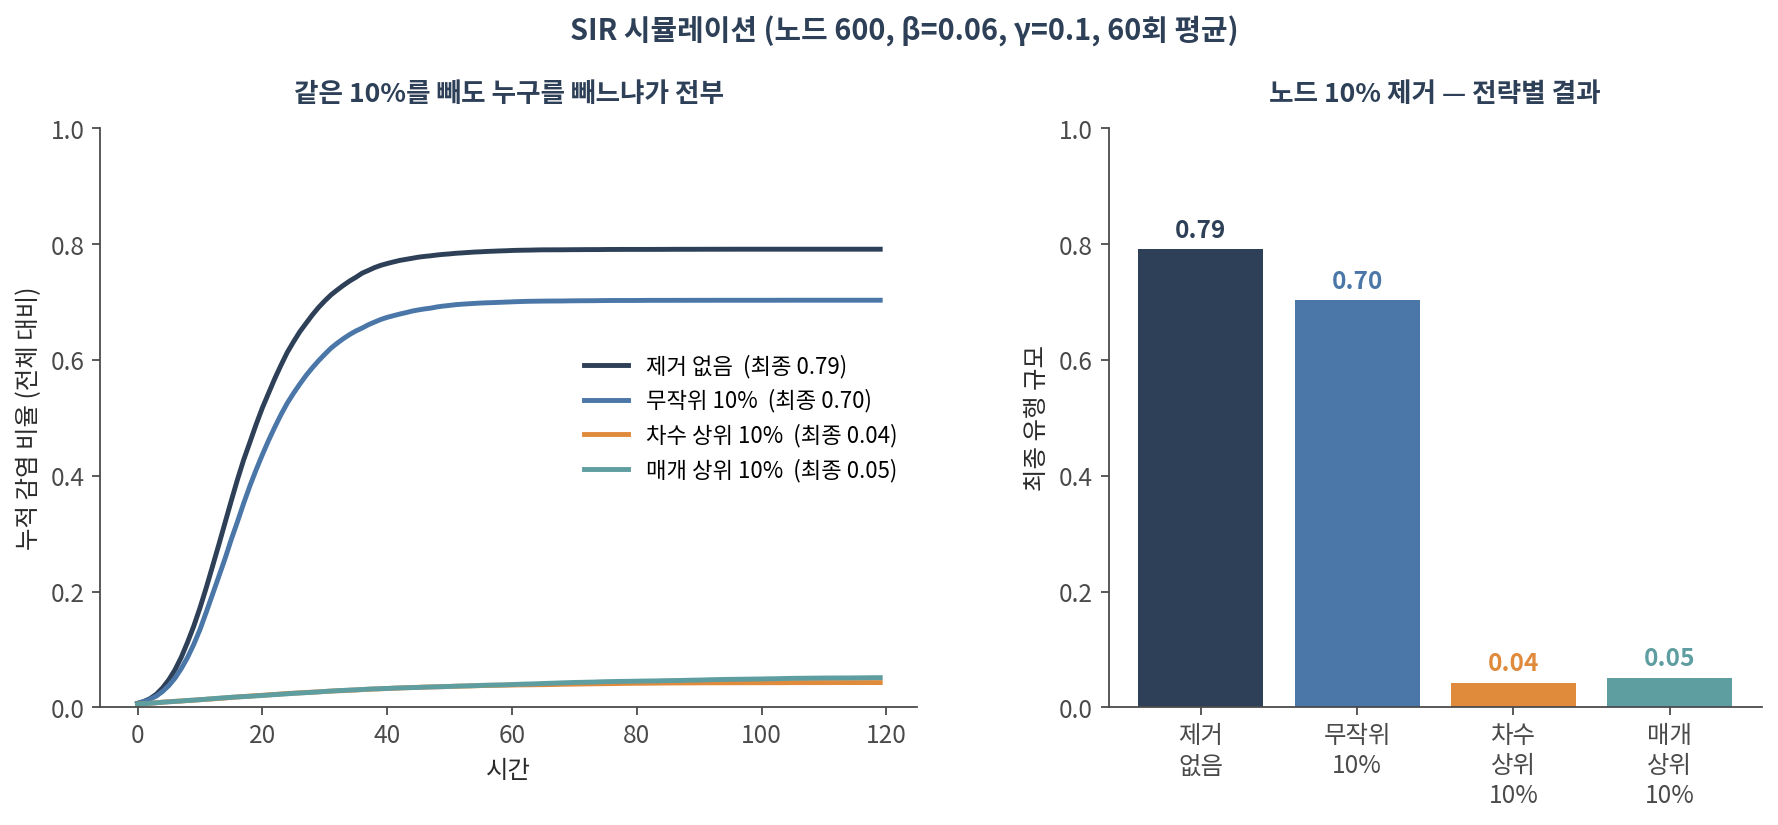
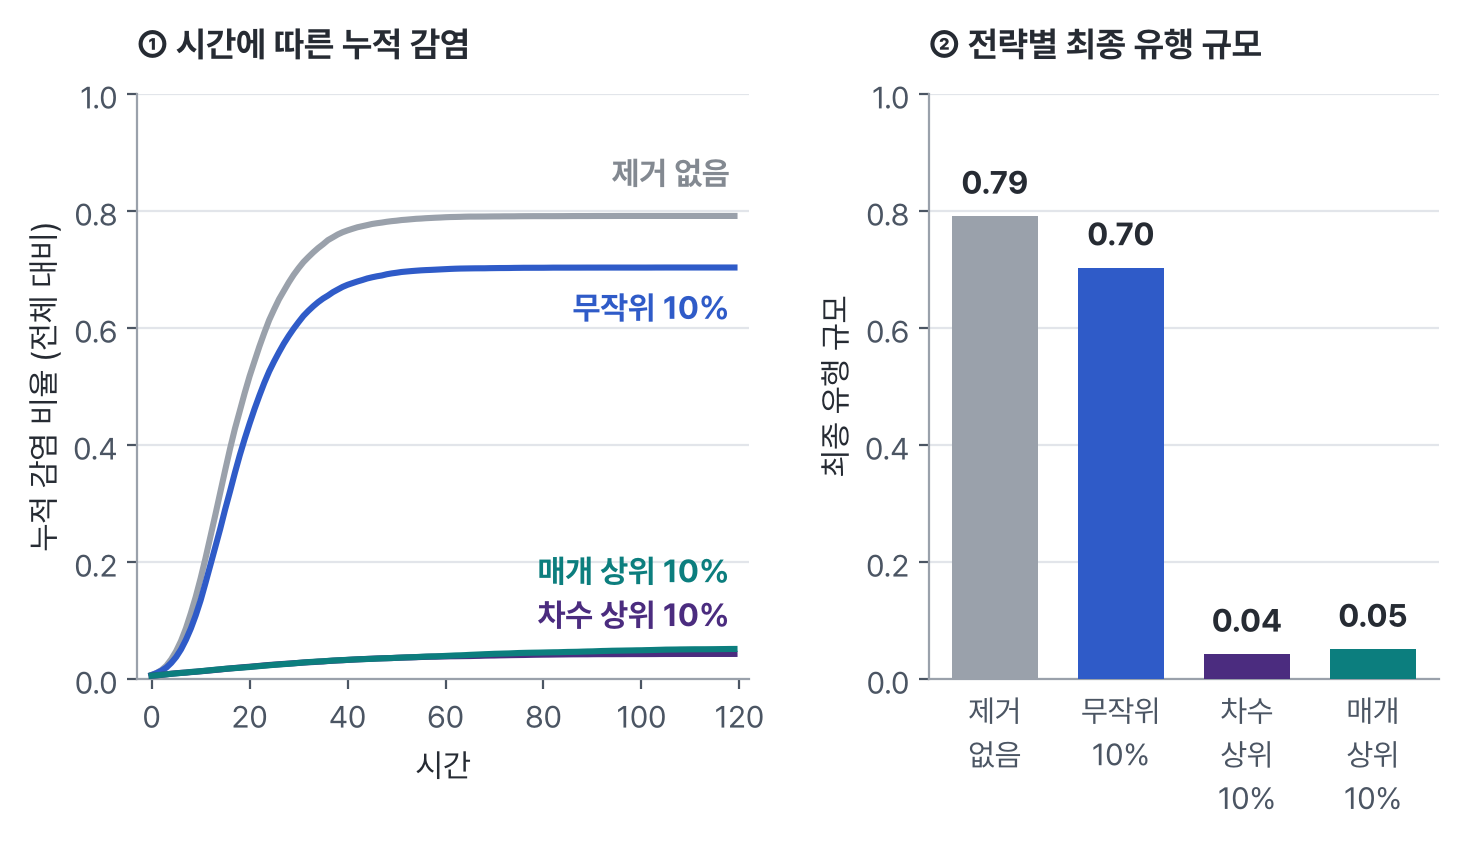
Ch 06: figures in the course style (linkpred,rwr,sir)
Claude-Session: https://claude.ai/code/session_013CY8u6jJVw5bdmmbqCENQW

diff --git a/figs/c06_rwr.py b/figs/c06_rwr.py
@@ -1,16 +1,16 @@
 """06 §2 — 재시작 랜덤워크(RWR)와 restart 파라미터.
 
-왼쪽 셋: 시드에서 출발한 확률이 네트워크로 퍼지는 모습.
-오른쪽: alpha 를 1 에 가깝게 두면 결국 '차수 줄세우기'가 된다.
+위 세 패널: 시드에서 출발한 확률이 네트워크로 퍼지는 모습 (세 패널 같은 색 눈금).
+아래: alpha 를 1 에 가깝게 두면 결국 '차수 줄세우기'가 된다.
 """
 import sys, os
 sys.path.insert(0, os.path.dirname(os.path.abspath(__file__)))
-from style import *
+from medfig import *
 import networkx as nx
 from scipy.stats import spearmanr
+from matplotlib.colors import LogNorm, LinearSegmentedColormap
 
-OUT = outdir("c06")
-
+# ── 계산 (이전 스크립트와 동일) ───────────────────────────────────────────
 n_comm, size, p_in, p_out = 5, 60, 0.12, 0.008
 P = np.full((n_comm, n_comm), p_out); np.fill_diagonal(P, p_in)
 G = nx.stochastic_block_model([size] * n_comm, P, seed=4)
@@ -20,7 +20,6 @@ comm = {v: v // size for v in order}
 A = nx.to_numpy_array(G, nodelist=order)
 W = A / A.sum(0)
 deg = np.array([G.degree(v) for v in order])
-pos = nx.spring_layout(G, seed=4, k=0.26)
 
 seeds = [v for v in order if comm[v] == 0][:3]
 p0 = np.zeros(len(order))
@@ -35,40 +34,77 @@ def rwr(alpha, iters=300):
     return p
 
 
-fig = plt.figure(figsize=(15.6, 4.6))
-gs = fig.add_gridspec(1, 4, width_ratios=[1, 1, 1, 1.25], wspace=0.22)
+# ── 그리기용 배치: 커뮤니티를 오각형으로 놓고, 시드 커뮤니티(0)를 왼쪽에 ─────────
+pos = {}
+for c in range(n_comm):
+    ang = np.deg2rad(180 - 72 * c)
+    cx, cy = np.cos(ang), np.sin(ang)
+    sub = G.subgraph([v for v in order if comm[v] == c])
+    sp = nx.spring_layout(sub, seed=4, k=0.35)
+    for v, (x, y) in sp.items():
+        pos[v] = (cx + 0.46 * x, cy + 0.46 * y)
+intra = [(u, v) for u, v in G.edges() if comm[u] == comm[v]]
+inter = [(u, v) for u, v in G.edges() if comm[u] != comm[v]]
 
-for i, alpha in enumerate([0.50, 0.85, 0.99]):
+SCORE = LinearSegmentedColormap.from_list(
+    "score", [mix(PRIMARY, 0.13), STEPS[1], STEPS[0], PRIMARY, shade(PRIMARY, 0.3)])
+VMIN, VMAX = 3e-4, 2e-2
+norm = LogNorm(vmin=VMIN, vmax=VMAX, clip=True)
+
+plt.rcParams.update({"xtick.labelsize": 11, "ytick.labelsize": 11})
+fig = plt.figure(figsize=(8.4, 6.0))
+gs = fig.add_gridspec(2, 3, height_ratios=[1.12, 1], hspace=0.30, wspace=0.04,
+                      left=0.09, right=0.98, top=0.95, bottom=0.09)
+
+show = [0.50, 0.85, 0.99]
+marks = ["①", "②", "③"]
+for i, alpha in enumerate(show):
     p = rwr(alpha)
     mass = sum(p[order.index(v)] for v in order if comm[v] == 0)
     ax = fig.add_subplot(gs[0, i])
-    nx.draw_networkx_edges(G, pos, ax=ax, edge_color=LGREY, width=0.4)
-    nodes = nx.draw_networkx_nodes(G, pos, ax=ax, node_color=p, cmap="YlOrRd",
-                                   linewidths=0, node_size=40,
-                                   vmin=0, vmax=p.max())
+    nx.draw_networkx_edges(G, pos, ax=ax, edgelist=inter, edge_color=LINE, width=0.35, alpha=0.8)
+    nx.draw_networkx_edges(G, pos, ax=ax, edgelist=intra, edge_color=LINE, width=0.55)
+    srt = sorted(order, key=lambda v: p[order.index(v)])
+    cols = [SCORE(norm(np.clip(p[order.index(v)], VMIN, VMAX))) for v in srt]
+    nx.draw_networkx_nodes(G, pos, ax=ax, nodelist=srt, node_color=cols,
+                           linewidths=0, node_size=20)
     nx.draw_networkx_nodes(G, pos, ax=ax, nodelist=seeds, node_color="none",
-                           edgecolors=NAVY, linewidths=2.0, node_size=110)
-    ax.set_title(f"restart α = {alpha}", color=NAVY, fontsize=12)
-    ax.text(0.5, -0.03,
-            f"시드 커뮤니티에 남은 확률 {mass:.2f}",
-            transform=ax.transAxes, ha="center", va="top", fontsize=10.5,
-            color=RED if mass < 0.4 else "#4A4A4A")
-    ax.margins(0.05); ax.set_axis_off()
+                           edgecolors=TEXT, linewidths=1.5, node_size=62)
+    ax.set_aspect("equal"); ax.margins(0.03)
+    ax.set_xticks([]); ax.set_yticks([])
+    for spn in ax.spines.values(): spn.set_visible(False)
+    ax.text(0.5, 1.02, f"{marks[i]} α = {alpha:.2f}", transform=ax.transAxes, ha="center",
+            va="bottom", fontsize=12.5, fontweight="bold", color=TEXT)
+    ax.text(0.5, 0.0, f"시드 커뮤니티에 남은 확률 {mass:.2f}", transform=ax.transAxes,
+            ha="center", va="top", fontsize=11, color=TEXT)
 
-ax = fig.add_subplot(gs[0, 3])
+# ── 아래: α 와 차수 상관 ───────────────────────────────────────────────────
+ax = fig.add_subplot(gs[1, :])
 alphas = np.arange(0.1, 1.0, 0.02)
 rho = [spearmanr(rwr(a, 200), deg).statistic for a in alphas]
-ax.plot(alphas, rho, color=NAVY, lw=2)
-for a, col in [(0.50, TEAL), (0.85, ORANGE), (0.99, RED)]:
-    ax.axvline(a, color=col, ls="--", lw=1.3)
-ax.set_xlabel("restart α"); ax.set_ylabel("RWR 점수와 차수의 상관 (ρ)")
-ax.set_ylim(0, 1)
-ax.set_title("⚠ α가 1에 가까우면\n허브 줄세우기가 된다", color=NAVY, fontsize=12)
+ax.axvspan(0.5, 0.8, color=FAINT, lw=0, zorder=0)
+ax.text(0.65, 0.05, "흔히 쓰는 값", ha="center", va="bottom", fontsize=11, color=TEXT2)
+ax.plot(alphas, rho, color=PRIMARY, lw=2, zorder=3)
 
-fig.suptitle("시드(테두리 표시) 3개에서 출발한 확률이 어디까지 퍼지는가",
-             color=NAVY, fontsize=13, fontweight="bold", y=1.03)
-fig.savefig(os.path.join(OUT, "rwr.png"))
-print("wrote", os.path.join(OUT, "rwr.png"))
+pts = [(a, spearmanr(rwr(a), deg).statistic) for a in show]
+(a1, r1), (a2, r2), (a3, r3) = pts
+ax.plot([alphas[-1], a3], [rho[-1], r3], color=PRIMARY, lw=1.4, ls=(0, (2, 2)), zorder=3)
+ax.plot([a1, a2], [r1, r2], "o", ms=7, color=PRIMARY, zorder=4)
+ax.plot([a3], [r3], "o", ms=8, color=ACCENT_INK, zorder=4)
+ax.text(a1, r1 + 0.09, f"① ρ = {r1:.2f}", ha="center", va="bottom", fontsize=11,
+        fontweight="bold", color=TEXT)
+ax.text(a2 + 0.02, r2 - 0.06, f"② ρ = {r2:.2f}", ha="left", va="center", fontsize=11,
+        fontweight="bold", color=TEXT)
+ax.text(a3 - 0.025, r3, f"③ ρ = {r3:.2f} · 허브 줄세우기", ha="right", va="center",
+        fontsize=11.5, fontweight="bold", color=ACCENT_INK)
+
+ax.set_xlim(0.08, 1.02); ax.set_ylim(0, 1.05)
+ax.set_yticks([0, 0.25, 0.5, 0.75, 1.0])
+ax.set_xlabel("restart α", fontsize=11.5)
+ax.set_ylabel("차수와의 상관 ρ", fontsize=11.5)
+ax.grid(axis="y", color=LINE, lw=0.6, zorder=0)
+
+save(fig, img("c06", "rwr.png"))
 for a in (0.3, 0.5, 0.7, 0.85, 0.95, 0.99):
     p = rwr(a)
     mass = sum(p[order.index(v)] for v in order if comm[v] == 0)

diff --git a/figs/c06_linkpred.py b/figs/c06_linkpred.py
@@ -5,12 +5,11 @@ AUROC 는 그대로인데 AUPRC 는 무너진다.
 """
 import sys, os
 sys.path.insert(0, os.path.dirname(os.path.abspath(__file__)))
-from style import *
+from medfig import *
 import networkx as nx
 from sklearn.metrics import (roc_curve, precision_recall_curve,
                              roc_auc_score, average_precision_score)
 
-OUT = outdir("c06")
 rng = np.random.default_rng(0)
 
 G = nx.powerlaw_cluster_graph(800, 3, 0.35, seed=1)
@@ -40,57 +39,78 @@ scorers = {
     "Adamic–Adar": lambda p: [s for _, _, s in nx.adamic_adar_index(H, p)],
     "Preferential Att.": lambda p: [s for _, _, s in nx.preferential_attachment(H, p)],
 }
-cols = {"Common Neighbors": BLUE, "Jaccard": PURPLE,
-        "Adamic–Adar": TEAL, "Preferential Att.": ORANGE}
+names = list(scorers)
+cols = {n: CAT[i] for i, n in enumerate(names)}      # 나란한 네 방법
+NEUTRAL = "#9AA1AB"
 
 settings = [("음성을 양성과 같은 수만 뽑으면", n_test),
             ("음성을 현실 비율대로 뽑으면 (1:50)", n_test * 50)]
+markers = ["① 음성을 양성과 같은 수만 (1:1)", "② 음성을 현실 비율대로 (1:50)"]
 
-fig, axes = plt.subplots(1, 3, figsize=(15.6, 4.7), gridspec_kw={"wspace": 0.28})
+plt.rcParams.update({"xtick.labelsize": 11, "ytick.labelsize": 11})
+fig = plt.figure(figsize=(8.4, 6.5))
+gs = fig.add_gridspec(2, 2, height_ratios=[1.4, 1], hspace=0.4, wspace=0.26)
+axes = [fig.add_subplot(gs[0, 0]), fig.add_subplot(gs[0, 1]), fig.add_subplot(gs[1, :])]
 summary = {}
 
-for si, (label, n_neg) in enumerate(settings):
+for si, (lab, n_neg) in enumerate(settings):
     neg = sample_neg(n_neg)
     pairs = test_pos + neg
     y = np.r_[np.ones(len(test_pos)), np.zeros(len(neg))]
-    summary[label] = {}
+    summary[lab] = {}
     ax = axes[si]
     for name, f in scorers.items():
         s = np.array(f(pairs), dtype=float)
         pr, rc, _ = precision_recall_curve(y, s)
         ap = average_precision_score(y, s)
         auc = roc_auc_score(y, s)
-        summary[label][name] = (auc, ap)
-        ax.plot(rc, pr, color=cols[name], lw=1.8,
-                label=f"{name}  AUPRC={ap:.2f}")
-    ax.axhline(y.mean(), color=GREY, ls="--", lw=1.3,
-               label=f"우연 수준 {y.mean():.3f}")
-    ax.set_xlabel("Recall"); ax.set_ylabel("Precision")
-    ax.set_ylim(0, 1.02)
-    ax.set_title(label, color=NAVY, fontsize=12)
-    ax.legend(frameon=False, fontsize=9)
+        summary[lab][name] = (auc, ap)
+        ax.plot(rc, pr, color=cols[name], lw=1.8, label=f"{name}  {ap:.2f}")
+    chance_lab = f"우연 수준  {y.mean():.3f}"
+    ax.axhline(y.mean(), color=NEUTRAL, ls="--", lw=1.3,
+               label=(chance_lab if si == 1 else "_nolegend_"))
+    if si == 0:                                   # 범례와 겹치지 않게 점선 바로 위 왼쪽 빈 곳에 직접 라벨
+        ax.text(0.0, y.mean() + 0.025, chance_lab, fontsize=11, color=TEXT2,
+                ha="left", va="bottom")
+    ax.set_xlabel("Recall", fontsize=11.5); ax.set_ylabel("Precision", fontsize=11.5)
+    ax.set_ylim(0, 1.02); ax.set_xlim(-0.02, 1.02)
+    ax.text(0.5, 1.04, markers[si], transform=ax.transAxes, ha="center", va="bottom",
+            fontsize=12, fontweight="bold", color=TEXT)
+    if si == 0:
+        lk = dict(loc="lower right", bbox_to_anchor=(1.0, 0.0))
+    else:
+        lk = dict(loc="upper right", bbox_to_anchor=(1.0, 1.0))
+    ax.legend(frameon=False, fontsize=11, title="AUPRC", title_fontsize=11,
+              handlelength=1.3, labelspacing=0.25, borderaxespad=0.15, borderpad=0.2,
+              alignment="left", **lk)
 
-# --- 세 번째 패널: AUROC 는 그대로인데 AUPRC 만 무너진다 -------------------
+# --- ③ 요약: AUROC 는 그대로, AUPRC 만 무너진다 ---------------------------
 ax = axes[2]
-names = list(scorers)
-x = np.arange(len(names)); w = 0.2
+x = np.arange(len(names)); w = 0.19
 bal, real = settings[0][0], settings[1][0]
-ax.bar(x - 1.5*w, [summary[bal][n][0] for n in names], w, color=NAVY,
-       label="AUROC (균형)")
-ax.bar(x - 0.5*w, [summary[real][n][0] for n in names], w, color="#8FA3B0",
-       label="AUROC (현실)")
-ax.bar(x + 0.5*w, [summary[bal][n][1] for n in names], w, color=TEAL,
-       label="AUPRC (균형)")
-ax.bar(x + 1.5*w, [summary[real][n][1] for n in names], w, color=RED,
-       label="AUPRC (현실)")
-ax.set_xticks(x)
-ax.set_xticklabels([n.replace(" ", "\n") for n in names], fontsize=9)
-ax.set_ylim(0, 1)
-ax.set_title("⚠ AUROC는 꿈쩍 않고 AUPRC만 무너진다", color=NAVY, fontsize=12)
-ax.legend(frameon=False, fontsize=9, ncol=2)
+auc_b = [summary[bal][n][0] for n in names]
+auc_r = [summary[real][n][0] for n in names]
+ap_b = [summary[bal][n][1] for n in names]
+ap_r = [summary[real][n][1] for n in names]
+ax.bar(x - 1.5*w, auc_b, w, color="#5F6672", label="AUROC (균형)")   # 무채색: 위 네 방법의 색과 겹치지 않게
+ax.bar(x - 0.5*w, auc_r, w, color="#8B929D", label="AUROC (현실)")
+ax.bar(x + 0.5*w, ap_b, w, color="#BCC2CB", label="AUPRC (균형)")
+ax.bar(x + 1.5*w, ap_r, w, color=ACCENT, label="AUPRC (현실)")   # 놓치면 안 되는 하나
+for xi, v in zip(x, ap_r):
+    ax.text(xi + 1.5*w, v + 0.02, f"{v:.2f}", ha="center", va="bottom", fontsize=11,
+            fontweight="bold", color=ACCENT_INK)
+ax.set_xticks(x); ax.set_xticklabels(names, fontsize=11)
+ax.tick_params(axis="x", length=0)
+ax.set_ylim(0, 1.0); ax.set_yticks([0, 0.25, 0.5, 0.75, 1.0])
+ax.set_ylabel("점수", fontsize=11.5)
+ax.yaxis.grid(True, color=LINE, lw=0.8); ax.set_axisbelow(True)
+ax.text(0.5, 1.04, "③ 네 방법 요약", transform=ax.transAxes, ha="center", va="bottom",
+        fontsize=12, fontweight="bold", color=TEXT)
+ax.legend(frameon=False, fontsize=11, ncol=4, loc="upper center",
+          bbox_to_anchor=(0.5, 1.01), handlelength=1.2, columnspacing=1.4)
 
-fig.savefig(os.path.join(OUT, "linkpred.png"))
-print("wrote", os.path.join(OUT, "linkpred.png"))
+save(fig, img("c06", "linkpred.png"))
+print(f"노드 {G.number_of_nodes()}  엣지 {G.number_of_edges()}  밀도 {nx.density(G):.4f}")
 for lab in summary:
     for n in names:
         a, p = summary[lab][n]

diff --git a/figs/c06_sir.py b/figs/c06_sir.py
@@ -5,10 +5,10 @@
 """
 import sys, os
 sys.path.insert(0, os.path.dirname(os.path.abspath(__file__)))
-from style import *
+from medfig import *
 import networkx as nx
 
-OUT = outdir("c06")
+NEUTRAL = "#9AA1AB"
 
 G = nx.powerlaw_cluster_graph(600, 3, 0.3, seed=2)
 G = G.subgraph(max(nx.connected_components(G), key=len)).copy()
@@ -17,11 +17,12 @@ deg = dict(G.degree())
 btw = nx.betweenness_centrality(G)
 k = int(0.1 * N)
 
+# 제거 없음 = 기준선(무채색), 나머지 세 전략은 나란한 항목 → CAT
 strategies = [
-    ("제거 없음", [], NAVY),
-    ("무작위 10%", list(np.random.default_rng(1).choice(list(G.nodes()), k, replace=False)), BLUE),
-    ("차수 상위 10%", sorted(deg, key=deg.get, reverse=True)[:k], ORANGE),
-    ("매개 상위 10%", sorted(btw, key=btw.get, reverse=True)[:k], TEAL),
+    ("제거 없음", [], NEUTRAL),
+    ("무작위 10%", list(np.random.default_rng(1).choice(list(G.nodes()), k, replace=False)), CAT[1]),
+    ("차수 상위 10%", sorted(deg, key=deg.get, reverse=True)[:k], CAT[0]),
+    ("매개 상위 10%", sorted(btw, key=btw.get, reverse=True)[:k], CAT[2]),
 ]
 
 
@@ -50,33 +51,49 @@ def sir_curve(H, beta=0.06, gamma=0.1, n_seed=3, reps=60, tmax=120, seed=7):
     return curves.mean(0)
 
 
-fig, axes = plt.subplots(1, 2, figsize=(13.4, 4.7),
-                         gridspec_kw={"wspace": 0.26, "width_ratios": [1.25, 1]})
+plt.rcParams.update({"xtick.labelsize": 11, "ytick.labelsize": 11})
+fig, axes = plt.subplots(1, 2, figsize=(8.4, 3.8),
+                         gridspec_kw={"wspace": 0.32, "width_ratios": [1.2, 1]})
 
-finals = []
+finals, curves = [], []
 for name, removed, col in strategies:
     H = G.copy(); H.remove_nodes_from(removed)
     c = sir_curve(H)
     finals.append((name, c[-1], col))
-    axes[0].plot(c, color=col, lw=2.2, label=f"{name}  (최종 {c[-1]:.2f})")
+    curves.append(c)
     print(f"  {name:<14} 최종 유행 규모 {c[-1]:.3f}")
+print(f"  노드 수 N = {N}, 제거 k = {k}")
 
-axes[0].set_xlabel("시간"); axes[0].set_ylabel("누적 감염 비율 (전체 대비)")
-axes[0].set_ylim(0, 1)
-axes[0].set_title("같은 10%를 빼도 누구를 빼느냐가 전부", color=NAVY, fontsize=12)
-axes[0].legend(frameon=False, fontsize=10)
+# ── ① 시간에 따른 누적 감염 ─────────────────────────────────────────
+ax = axes[0]
+for (name, _, col), c in zip(strategies, curves):
+    ax.plot(c, color=col, lw=2.2, zorder=3)
+lab_y = {"제거 없음": 0.865, "무작위 10%": 0.635, "매개 상위 10%": 0.185, "차수 상위 10%": 0.11}
+for name, _, col in strategies:
+    ax.text(118, lab_y[name], name, color=shade(col, 0.15) if col == NEUTRAL else col,
+            fontsize=11.5, fontweight="bold", ha="right", va="center")
+ax.set_xlabel("시간", fontsize=11.5)
+ax.set_ylabel("누적 감염 비율 (전체 대비)", fontsize=11.5)
+ax.set_ylim(0, 1); ax.set_xlim(-3, 122)
+ax.set_xticks([0, 20, 40, 60, 80, 100, 120])
+ax.grid(axis="y", color=LINE, lw=0.8, zorder=0)
+ax.text(0.0, 1.05, "① 시간에 따른 누적 감염", transform=ax.transAxes, ha="left", va="bottom",
+        fontsize=12.5, fontweight="bold", color=TEXT)
 
+# ── ② 전략별 최종 유행 규모 ─────────────────────────────────────────
 ax = axes[1]
-ax.bar([f[0].replace(" ", "\n") for f in finals], [f[1] for f in finals],
-       color=[f[2] for f in finals])
+ticklabs = ["제거\n없음", "무작위\n10%", "차수\n상위\n10%", "매개\n상위\n10%"]
+ax.bar(range(len(finals)), [f[1] for f in finals], color=[f[2] for f in finals], width=0.68, zorder=3)
 for i, f in enumerate(finals):
-    ax.text(i, f[1] + 0.02, f"{f[1]:.2f}", ha="center", fontsize=11,
-            fontweight="bold", color=f[2])
+    ax.text(i, f[1] + 0.025, f"{f[1]:.2f}", ha="center", va="bottom", fontsize=11.5,
+            fontweight="bold", color=TEXT)
+ax.set_xticks(range(len(finals)))
+ax.set_xticklabels(ticklabs, fontsize=11, linespacing=1.2, va="top")
+ax.tick_params(axis="x", length=0)
 ax.set_ylim(0, 1)
-ax.set_ylabel("최종 유행 규모")
-ax.set_title("노드 10% 제거 — 전략별 결과", color=NAVY, fontsize=12)
+ax.set_ylabel("최종 유행 규모", fontsize=11.5)
+ax.grid(axis="y", color=LINE, lw=0.8, zorder=0)
+ax.text(0.0, 1.05, "② 전략별 최종 유행 규모", transform=ax.transAxes, ha="left", va="bottom",
+        fontsize=12.5, fontweight="bold", color=TEXT)
 
-fig.suptitle(f"SIR 시뮬레이션 (노드 {N}, β=0.06, γ=0.1, 60회 평균)",
-             color=NAVY, fontsize=13, fontweight="bold", y=1.03)
-fig.savefig(os.path.join(OUT, "sir.png"))
-print("wrote", os.path.join(OUT, "sir.png"))
+save(fig, img("c06", "sir.png"))
